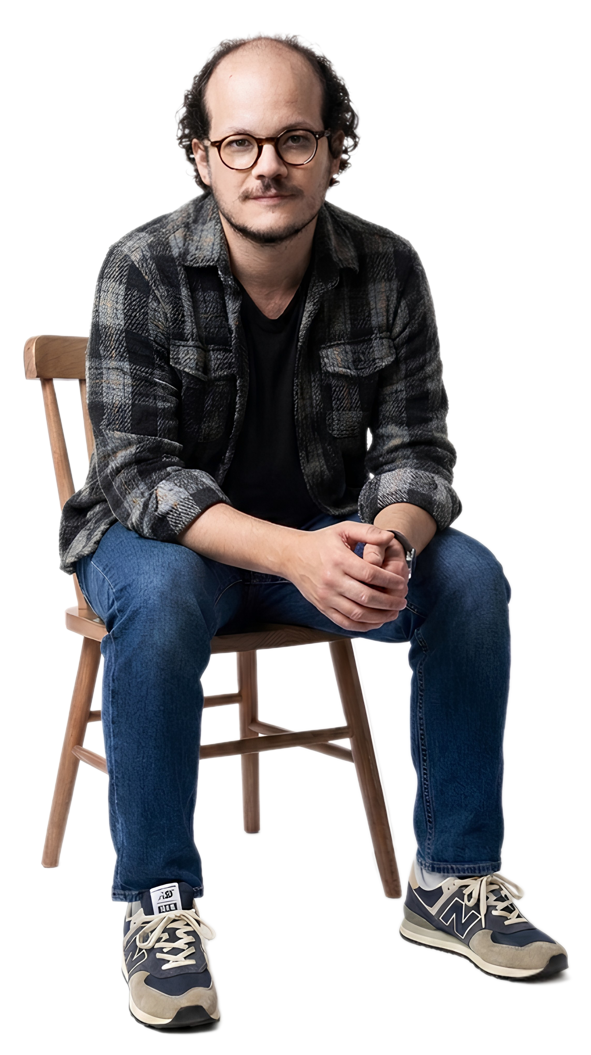
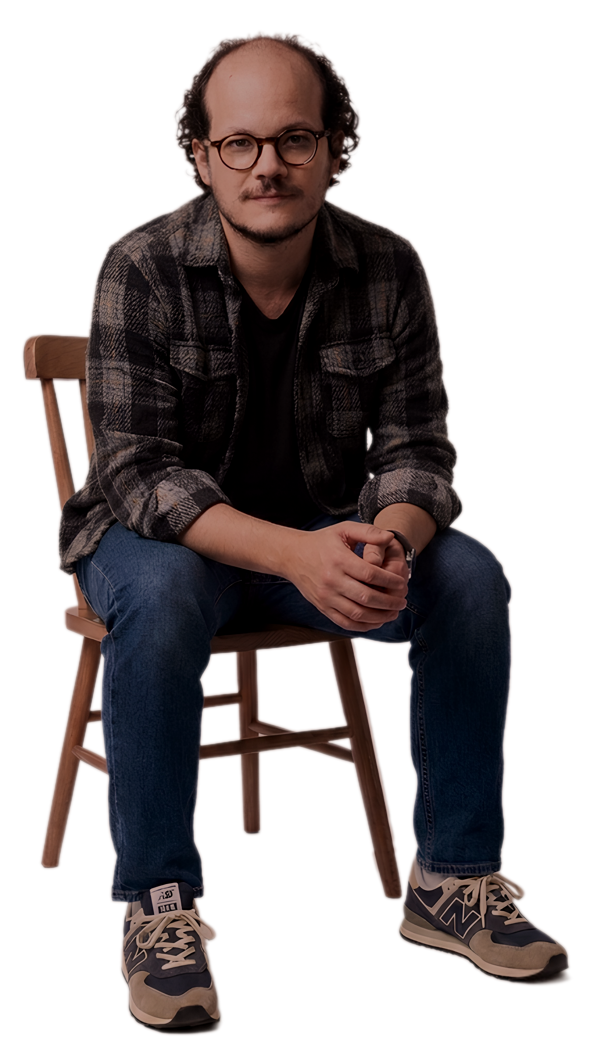
Ajusta cor da foto da home e afasta o grafo do retrato na abertura
- marcos-portrait.png (home) recebe transferência de cor/luz (média e
  desvio padrão por canal RGB, calculados só sobre pixels opacos) para
  casar com o tom de marcos-bio-portrait.png (/sobre), que tinha uma
  luz mais bonita — pedido do usuário após comparar as duas páginas.
- RhizomeGraph.tsx: o deslocamento de câmera pós-zoomToFit inverteu de
  direção — antes empurrava o grafo por cima do retrato (+110px para a
  esquerda), agora afasta o grafo dele (-110px, ou seja para a direita
  na tela), mantendo a constelação mais ao centro-direita na abertura,
  ao lado da foto em vez de sobreposta a ela.

Testado em múltiplos reloads (grafo consistentemente à direita, sem
sobrepor a foto) e nos dois temas.

Changed region(s): [[0.0305, 0.0303, 0.9746, 0.9706], [0.5178, 0.4246, 0.5482, 0.455], [0.3959, 0.364, 0.4264, 0.3943]]

diff --git a/components/RhizomeGraph.tsx b/components/RhizomeGraph.tsx
@@ -83,18 +83,18 @@ export function RhizomeGraph({
     // rótulos de nós na borda (ex. "tecnologia e imaginação") cortam.
     fgRef.current.zoomToFit(500, 96);
     // zoomToFit centraliza o conjunto de nós no contêiner inteiro — como o
-    // retrato (PortraitPhoto) fica atrás, ancorado à esquerda, sem esse
-    // deslocamento o grafo tende a sobrar todo à direita, sem passar por
-    // cima da foto. Depois do fit assentar, desloca a câmera um pouco
-    // para a direita (o conteúdo aparece deslocado para a esquerda),
-    // avançando sobre a área do retrato — moderado, para não ficar
-    // "aberto" demais sobre a foto.
+    // retrato (PortraitPhoto) fica atrás, ancorado à esquerda, o grafo
+    // tende a espalhar por cima dela. A pedido, o grafo deve ficar mais
+    // ao centro-direita na abertura — ao lado da foto, não sobre ela.
+    // Depois do fit assentar, desloca a câmera para a esquerda (o
+    // conteúdo aparece deslocado para a direita), afastando o grafo da
+    // área do retrato.
     window.setTimeout(() => {
       if (userInteractedRef.current || !fgRef.current) return;
       const center = fgRef.current.centerAt();
       const k = fgRef.current.zoom();
       programmaticZoomUntilRef.current = Date.now() + 450;
-      fgRef.current.centerAt(center.x + 90 / k, center.y, 400);
+      fgRef.current.centerAt(center.x - 110 / k, center.y, 400);
     }, 520);
   }, []);
 

diff --git a/README.md b/README.md
@@ -126,15 +126,15 @@ types/
 - **Sem `generateStaticParams` em `/objeto/[id]`**: como objetos podem ser criados a qualquer momento via admin, as páginas de objeto e a home são `force-dynamic` — sem isso, um objeto novo só apareceria depois de um rebuild.
 - **Sessão simples**: um `ADMIN_PASSWORD` comparado em tempo constante (`timingSafeEqual`), sem hash — é uma variável de ambiente secreta, não uma senha de usuário guardada em banco, então o modelo de risco é diferente e não justifica bcrypt aqui.
 - **Server Actions puras, sem JS de formulário customizado**: o formulário de criação usa só `<input>`/`<select>`/`<textarea>`/checkboxes nativos — concepts/relatedObjectIds são checkboxes (`formData.getAll`), links é uma textarea com um formato simples (`Rótulo | url` por linha) em vez de uma lista dinâmica com estado React. Menos JS, funciona igual.
-- **Retrato atrás do grafo (`marcos-portrait.png`)**: fundo recortado (transparente) a partir de duas fotos enviadas (fundo preto e branco, mesma pose) — como o sujeito não muda entre elas, a diferença pixel a pixel separa sujeito de fundo com bordas limpas (script Python/Pillow, não versionado; ver histórico do commit), sem precisar de matting por ML nem se preocupar com o fundo original não ser 100% uniforme. Um único PNG RGBA funciona nos dois temas — sem transparência, cada tema precisaria da sua própria versão. `PortraitPhoto.tsx` fica em `z-0` dentro do mesmo contêiner do `RhizomeGraph` (que é `z-10` com canvas transparente), então o grafo desenha por cima da foto em vez de cobri-la com um retângulo opaco.
-- **Retrato de `/sobre` (`marcos-bio-portrait.png`)**: sem par preto/branco disponível para a técnica de diferença, então o fundo (um cinza-claro com leve gradiente, não uniforme) foi removido por segmentação (`rembg`/U2Net) — a versão final usada no site, porém, veio de um recorte de maior resolução já pronto, com bordas mais limpas que o processamento local; ambos ficam de fora do controle de versão (só `public/marcos-bio-portrait.png`, o resultado final, é commitado).
+- **Retrato atrás do grafo (`marcos-portrait.png`)**: fundo recortado (transparente) a partir de duas fotos enviadas (fundo preto e branco, mesma pose) — como o sujeito não muda entre elas, a diferença pixel a pixel separa sujeito de fundo com bordas limpas (script Python/Pillow, não versionado; ver histórico do commit), sem precisar de matting por ML nem se preocupar com o fundo original não ser 100% uniforme. Um único PNG RGBA funciona nos dois temas — sem transparência, cada tema precisaria da sua própria versão. `PortraitPhoto.tsx` fica em `z-0` dentro do mesmo contêiner do `RhizomeGraph` (que é `z-10` com canvas transparente), então o grafo desenha por cima da foto em vez de cobri-la com um retângulo opaco. A cor/luz dessa foto foi ajustada (transferência de estatísticas de cor por canal — média e desvio padrão de RGB, calculados só sobre os pixels opacos) para casar com o tom de `marcos-bio-portrait.png`, que tinha uma luz mais bonita.
+- **Retrato de `/sobre` (`marcos-bio-portrait.png`)**: sem par preto/branco disponível para a técnica de diferença, então o fundo (um cinza-claro com leve gradiente, não uniforme) foi removido por segmentação (`rembg`/U2Net) — a versão final usada no site, porém, veio de um recorte de resolução bem maior fornecido depois, com bordas mais limpas que o processamento local. Nenhum dos originais fica no controle de versão (só o resultado final em `public/`).
 - **Banco local sem Docker**: para desenvolver/testar sem precisar de uma conta Postgres na nuvem, `npx prisma dev` (ver [docs do Prisma](https://www.prisma.io/docs)) sobe um Postgres local de verdade — útil só em dev, nunca use em produção.
 - **Busca real no futuro**: o ponto de substituição por embeddings/busca vetorial está comentado em `lib/useSearch.ts` — a interface do hook não muda.
 - **Busca sem conceito selecionado**: quando não há um conceito ativo, o `SearchResultsPanel` aparece ao lado do grafo (desktop) ou abaixo dos chips (mobile) listando os objetos que bateram com a busca, ranqueados por relevância do Fuse.js (`rankedObjectIds` em `lib/useSearch.ts`). Ao selecionar um conceito, esse painel some e o `ObjectPreviewPanel`/lista do acordeão volta a filtrar dentro do conceito escolhido.
 - **Mobile**: abaixo do breakpoint `md`, o grafo de força é substituído por chips de conceito roláveis + lista (`ConceptAccordion`), mantendo a mesma lógica de filtro.
 - Se o layout de força ficar genérico, a alternativa prevista é d3-force puro em `<svg>` — os pontos de ajuste estão comentados em `RhizomeGraph.tsx`.
 - **Zoom inicial do grafo (`fitGraph` em `RhizomeGraph.tsx`)**: `onEngineStop` pode disparar antes de a força de colisão (aplicada assincronamente em `handleFgRef`) convergir de verdade, deixando um `zoomToFit` prematuro e nós sobrepostos. Por isso há uma segunda chamada de segurança ~2.2s após o mount, além das dos primeiros `onEngineStop`. Um `userInteractedRef` (setado via `onZoom`/`onNodeDrag`) impede que essa rede de segurança sobrescreva zoom/pan manual do usuário — `programmaticZoomUntilRef` (a janela em que se ignora o próprio `onZoom` do `zoomToFit`) começa em `Infinity`, não `0`: a lib dispara um `onZoom` no mount, antes do primeiro `fitGraph()` rodar, e com `0` esse evento já marcava `userInteractedRef` como `true` permanentemente, cancelando todo reenquadramento futuro silenciosamente.
-- **Grafo por cima do retrato, de propósito**: depois do `zoomToFit`, `fitGraph()` desloca a câmera (`centerAt`) mais 130px para a esquerda — sem isso, o layout de força tende a se centralizar todo à direita do contêiner largo (foto+grafo compartilham o mesmo espaço), sem nunca passar sobre a área do retrato.
+- **Grafo afastado do retrato, de propósito**: depois do `zoomToFit`, `fitGraph()` desloca a câmera (`centerAt`) 110px para a direita (o conteúdo aparece deslocado para a direita na tela) — o pedido foi manter o grafo mais ao centro-direita do contêiner largo (foto+grafo compartilham o mesmo espaço), ao lado do retrato, não por cima dele. (Uma versão anterior fazia o oposto — deslocava para sobrepor a foto — antes do pedido mudar.)
 - **Acessibilidade por teclado no grafo (desktop)**: os nós são pintados em `<canvas>`, sem elemento de DOM para focar. `RhizomeGraph.tsx` renderiza um `<button>` por conceito, visualmente oculto até receber foco (padrão "skip link": `sr-only`-like até `:focus`, aí aparece fixo no canto) — Tab alcança cada conceito, Enter/Espaço seleciona (mesmo handler do clique no nó). Ao selecionar, `ObjectPreviewPanel` move o foco para o próprio heading (`useEffect` + `tabIndex={-1}`), então quem navega por teclado não precisa tabular por todos os outros conceitos ocultos para chegar ao painel recém-aberto. A versão mobile (`ConceptAccordion`) já era 100% navegável por teclado (chips são `<button>` nativos).
 - O site já teve modos "Ler" e "Construir" (listas editoriais separadas do grafo) — foram removidos da home a pedido, e os componentes correspondentes foram deletados. Se fizerem falta de novo, dá para recriá-los como rotas próprias (ex. `/ler`, `/construir`) reaproveitando os dados de `lib/data.ts`.
 
